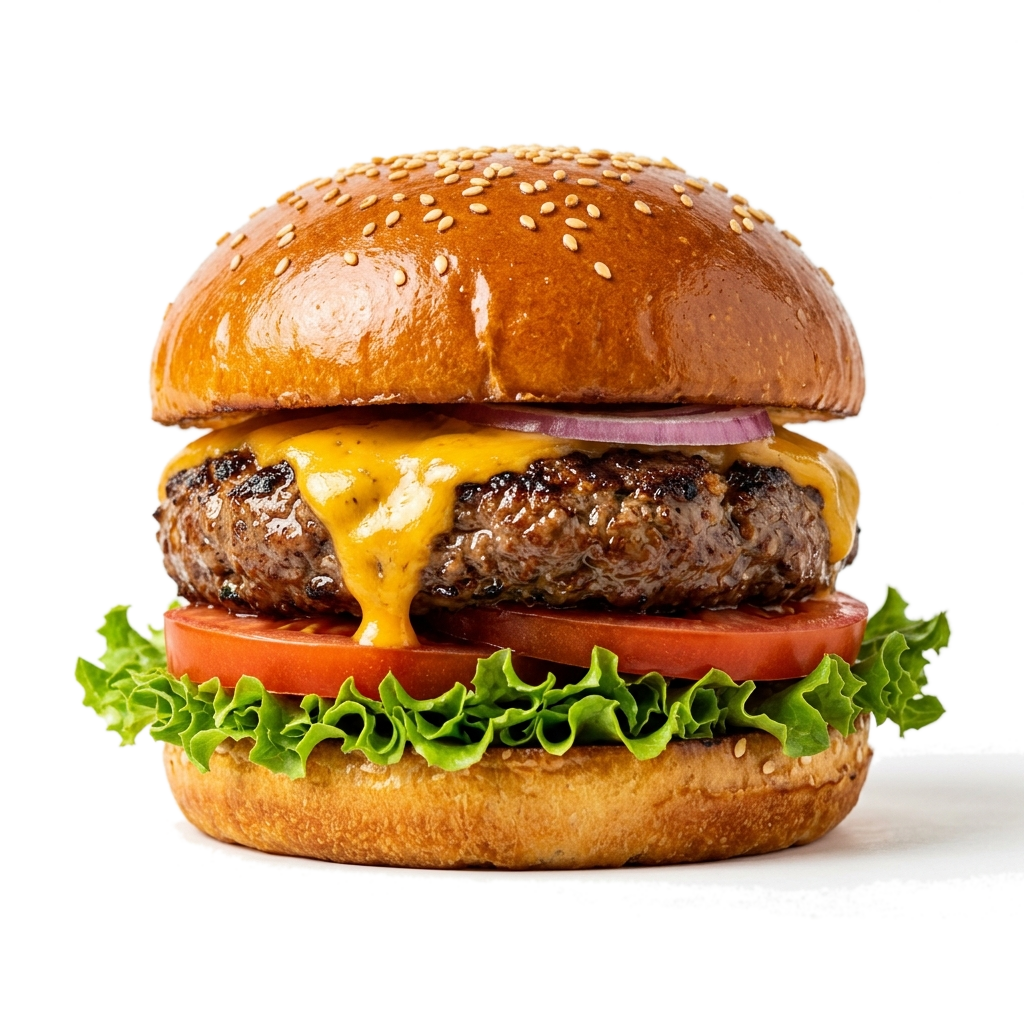
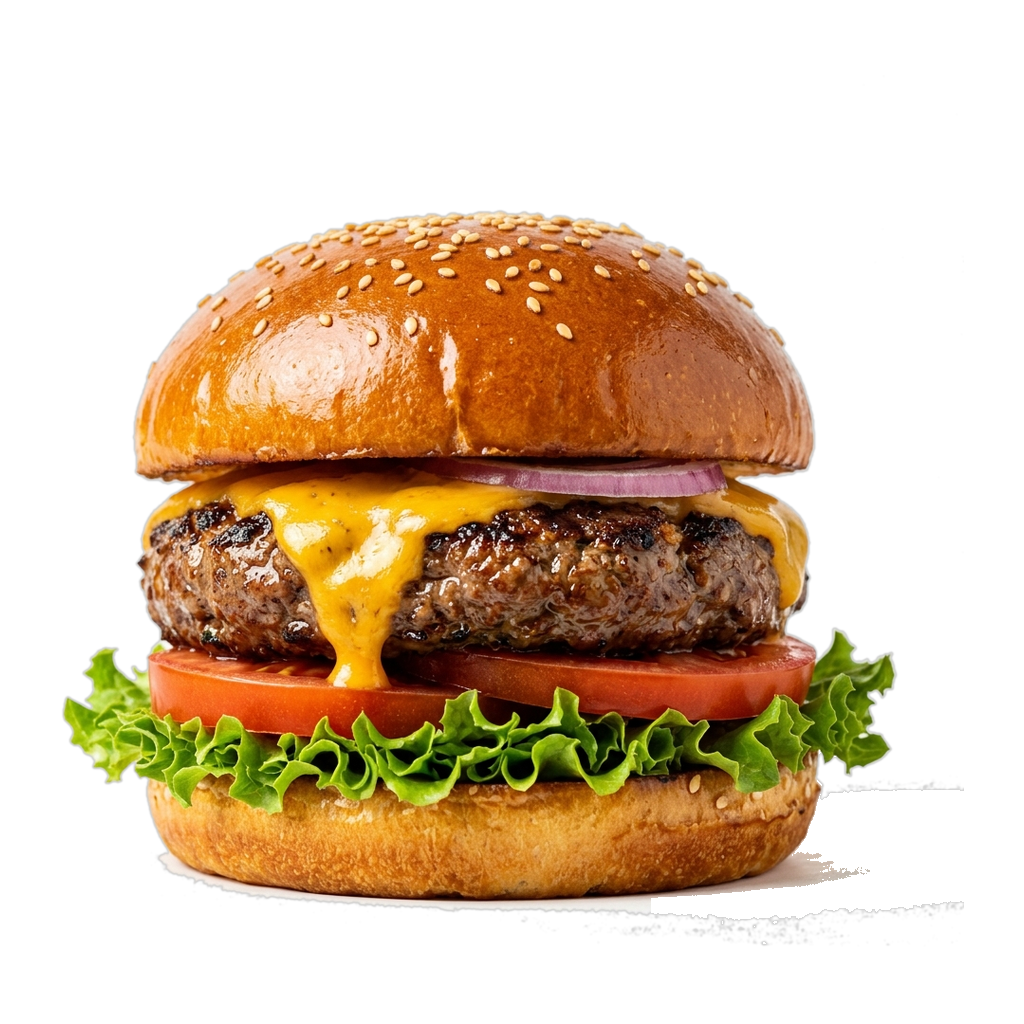
feat: replace disjointed burger layers with 100% photorealistic gourmet Angus burger with physical entry and hero zoom

diff --git a/index.html b/index.html
@@ -153,6 +153,10 @@
     }
 
     .chapter-chip {
+      appearance: none;
+      border: 1px solid transparent;
+      background: transparent;
+      font-family: inherit;
       font-size: 0.88rem;
       font-weight: 700;
       color: var(--fg-muted);
@@ -166,6 +170,10 @@
       color: #ffffff;
       background: rgba(244, 140, 6, 0.22);
       border: 1px solid rgba(244, 140, 6, 0.45);
+    }
+    .chapter-chip:focus-visible {
+      outline: 2px solid var(--accent-gold);
+      outline-offset: 3px;
     }
 
     .nav-tools {
@@ -750,7 +758,23 @@
     }
 
     @media (max-width: 768px) {
-      .chapter-nav { display: none; }
+      .site-header { padding: 10px 3vw; }
+      .header-inner { flex-wrap: wrap; gap: 8px; padding: 8px 12px; border-radius: 20px; }
+      .chapter-nav {
+        display: flex;
+        order: 3;
+        width: 100%;
+        gap: 4px;
+        justify-content: space-between;
+        overflow-x: auto;
+        scrollbar-width: none;
+      }
+      .chapter-nav::-webkit-scrollbar { display: none; }
+      .chapter-chip { white-space: nowrap; font-size: 0.76rem; padding: 5px 8px; }
+      .nav-tools { gap: 6px; }
+      .btn-circle { width: 34px; height: 34px; font-size: .9rem; }
+      .btn-cart-pill { padding: 8px 11px; font-size: .82rem; }
+      .intro-prologue { padding-top: 110px; }
       .stage-arena { width: min(380px, 88vw); height: min(380px, 88vw); }
       .subtitle-capsule { padding: 10px 18px; }
       .hero-order-pill { padding: 12px 24px; font-size: 1.05rem; }
@@ -770,10 +794,10 @@
         <div class="brand-dot"></div>
       </a>
 
-      <nav class="chapter-nav">
-        <span class="chapter-chip active" id="chipBurger" onclick="jumpTo(1)">برجر اللهب</span>
-        <span class="chapter-chip" id="chipPizza" onclick="jumpTo(2)">بيتزا الحجر</span>
-        <span class="chapter-chip" id="chipBroast" onclick="jumpTo(3)">بروستد مقرمش</span>
+      <nav class="chapter-nav" aria-label="اختيار الوجبة">
+        <button class="chapter-chip active" id="chipBurger" type="button" onclick="selectDish('burger')">برجر اللهب</button>
+        <button class="chapter-chip" id="chipPizza" type="button" onclick="selectDish('pizza')">بيتزا الحجر</button>
+        <button class="chapter-chip" id="chipBroast" type="button" onclick="selectDish('broast')">بروستد مقرمش</button>
       </nav>
 
       <div class="nav-tools">
@@ -823,21 +847,9 @@
             <img src="assets/box_open.png" alt="صندوق لقمة مفتوح">
           </div>
 
-          <!-- Food Physical Layers -->
-          <div class="layer-canvas layer-food-stack" id="b-bun-bottom">
-            <img src="assets/bun_bottom.png" alt="قاعدة البريوش">
-          </div>
-          <div class="layer-canvas layer-food-stack" id="b-lettuce">
-            <img src="assets/lettuce_tomato.png" alt="خس وطماطم">
-          </div>
-          <div class="layer-canvas layer-food-stack" id="b-patty">
-            <img src="assets/patty.png" alt="شريحة أنجوس">
-          </div>
-          <div class="layer-canvas layer-food-stack" id="b-cheese">
-            <img src="assets/cheese.png" alt="شيدر ذائبة">
-          </div>
-          <div class="layer-canvas layer-food-stack" id="b-bun-top">
-            <img src="assets/bun_top.png" alt="تاج البريوش">
+          <!-- Real Gourmet Angus Burger -->
+          <div class="layer-canvas layer-food-stack" id="b-full">
+            <img src="assets/burger_plate.png" alt="برجر أنجوس لقمة المشوي">
           </div>
 
           <!-- Closed Sealed Box (on top) -->
@@ -1040,11 +1052,7 @@
     const sceneBurger = document.getElementById('sceneBurger');
     const burgerArena = document.getElementById('burgerArena');
     const burgerShadow = document.getElementById('burgerShadow');
-    const bBunBottom = document.getElementById('b-bun-bottom');
-    const bLettuce = document.getElementById('b-lettuce');
-    const bPatty = document.getElementById('b-patty');
-    const bCheese = document.getElementById('b-cheese');
-    const bBunTop = document.getElementById('b-bun-top');
+    const bFull = document.getElementById('b-full');
     const bBoxOpen = document.getElementById('b-box-open');
     const bBoxClosed = document.getElementById('b-box-closed');
     const burgerCapsule = document.getElementById('burgerCapsule');
@@ -1077,9 +1085,44 @@
     const broastWipe = document.getElementById('broastWipe');
 
     // State
+    let selectedDish = 'burger';
     let lastBurgerBeat = -1;
     let lastPizzaBeat = -1;
     let lastBroastBeat = -1;
+
+    const dishScenes = {
+      burger: sceneBurger,
+      pizza: scenePizza,
+      broast: sceneBroast
+    };
+    const dishChips = {
+      burger: chipBurger,
+      pizza: chipPizza,
+      broast: chipBroast
+    };
+
+    function renderSelectedDish() {
+      Object.entries(dishScenes).forEach(([dish, scene]) => {
+        scene.hidden = dish !== selectedDish;
+      });
+      Object.entries(dishChips).forEach(([dish, chip]) => {
+        const isSelected = dish === selectedDish;
+        chip.classList.toggle('active', isSelected);
+        chip.setAttribute('aria-pressed', String(isSelected));
+      });
+    }
+
+    function selectDish(dish, shouldScroll = true) {
+      if (!dishScenes[dish]) return;
+      selectedDish = dish;
+      renderSelectedDish();
+      requestAnimationFrame(() => {
+        onScrollTick();
+        if (shouldScroll) {
+          window.scrollTo({ top: dishScenes[dish].offsetTop, behavior: 'smooth' });
+        }
+      });
+    }
 
     // Procedural Audio Engine
     let audioCtx = null;
@@ -1124,44 +1167,25 @@
       // SCENE 1: BURGER (p: 0 -> 1)
       // ==========================================
       const rB = sceneBurger.getBoundingClientRect();
-      if (rB.bottom > -100 && rB.top < H + 100) {
+      if (selectedDish === 'burger' && rB.bottom > -100 && rB.top < H + 100) {
         const p = clamp(-rB.top / (rB.height - H));
-
-        // Subtitles & Story Beats
-        // 0.00..0.15: Bun bottom
-        // 0.15..0.30: Lettuce & Tomato
-        // 0.30..0.45: Angus Patty
-        // 0.45..0.60: Melted Cheddar
-        // 0.60..0.72: Bun Top & Squish
-        // 0.72..0.82: HERO MOMENT (Text fades, Burger expands)
-        // 0.82..0.94: Packaging (Open Box rises, burger drops, closes)
-        // 0.94..1.00: Delivery Launch & Wipe to Pizza
 
         let beat = 0;
         let subText = "";
         let isHero = false;
 
-        if (p < 0.15) {
+        if (p < 0.25) {
           beat = 0;
-          subText = "قاعدة البريوش تهبط برائحة الزبدة الفاخرة";
-        } else if (p < 0.30) {
+          subText = "خبز بريوش طازج محمص بزبدة طبيعية فاخرة";
+        } else if (p < 0.50) {
           beat = 1;
-          subText = "خس لولوروسو المقرمش يلتف مع شرائح الطماطم";
-        } else if (p < 0.45) {
-          beat = 2;
-          subText = "شريحة أنجوس مشوية على لهب الجمر";
-        } else if (p < 0.60) {
-          beat = 3;
-          subText = "شيدر ذائبة تعانق اللحم الساخن";
+          subText = "شريحة أنجوس مشوية على اللهب بشيدر أمريكية ذائبة";
         } else if (p < 0.72) {
-          beat = 4;
-          subText = "تاج البريوش بالسمسم يُحكم الطبقات بانضغاط خفيف";
-        } else if (p < 0.84) {
-          beat = 5;
+          beat = 2;
           isHero = true;
-          subText = ""; // Text disappears for the food star
+          subText = ""; // Full hero moment
         } else {
-          beat = 6;
+          beat = 3;
           subText = "تستقر في بوكس لقمة المختوم وتنطلق لبابك 🛵";
         }
 
@@ -1176,77 +1200,49 @@
         burgerCapsule.style.transform = isHero ? "translateY(16px)" : "translateY(0)";
 
         // Hero Order Pill visibility
-        if (p >= 0.70 && p < 0.86) {
+        if (p >= 0.50 && p < 0.76) {
           burgerOrderPill.classList.add('visible');
         } else {
           burgerOrderPill.classList.remove('visible');
         }
 
-        // Layer 0: Bun Bottom
-        const q0 = clamp(p / 0.15);
-        const e0 = easeOutBack(q0);
-        bBunBottom.style.opacity = q0 > 0.05 ? 1 : 0;
-        bBunBottom.style.transform = `translate3d(0, ${-180 * (1 - e0)}px, 0) scale(${0.85 + 0.15 * e0})`;
+        // Burger Entry: Natural physical arrival with gentle bounce and rotation
+        const qB_main = clamp(p / 0.42);
+        const eB_main = easeOutBack(qB_main);
+        const bScale = 0.78 + 0.22 * eB_main;
+        const bRot = -8 * (1 - eB_main);
+        const bY = -240 * (1 - eB_main);
 
-        // Layer 1: Lettuce & Tomato (twists in)
-        const q1 = clamp((p - 0.15) / 0.15);
-        const e1 = easeOutBack(q1);
-        bLettuce.style.opacity = q1 > 0 ? 1 : 0;
-        bLettuce.style.transform = `translate3d(0, ${-260 * (1 - e1)}px, 0) rotate(${18 * (1 - e1)}deg) scale(${0.8 + 0.2 * e1})`;
+        bFull.style.opacity = qB_main > 0.05 ? 1 : 0;
+        bFull.style.transform = `translate3d(0, ${bY}px, 0) rotate(${bRot}deg) scale(${bScale})`;
 
-        // Layer 2: Angus Patty (heavy drop from top right)
-        const q2 = clamp((p - 0.30) / 0.15);
-        const e2 = easeOutBack(q2);
-        bPatty.style.opacity = q2 > 0 ? 1 : 0;
-        bPatty.style.transform = `translate3d(${30 * (1 - e2)}px, ${-320 * (1 - e2)}px, 0) rotate(${-12 * (1 - e2)}deg) scale(${0.8 + 0.2 * e2})`;
-
-        // Layer 3: Melted Cheese
-        const q3 = clamp((p - 0.45) / 0.15);
-        const e3 = easeOutBack(q3);
-        bCheese.style.opacity = q3 > 0 ? 1 : 0;
-        bCheese.style.transform = `translate3d(0, ${-340 * (1 - e3)}px, 0) scale(${0.88 + 0.12 * e3})`;
-
-        // Layer 4: Bun Top with squish compression
-        const q4 = clamp((p - 0.60) / 0.12);
-        const e4 = easeOutBack(q4);
-        const squish = (q4 > 0.82 && q4 < 0.98) ? Math.sin((q4 - 0.82) / 0.16 * Math.PI) * 0.08 : 0;
-        bBunTop.style.opacity = q4 > 0 ? 1 : 0;
-        bBunTop.style.transform = `translate3d(0, ${-380 * (1 - e4)}px, 0) scale(${1 + squish * 0.6}, ${1 - squish})`;
-
-        // Hero zoom breathing (at p: 0.72..0.82)
-        const heroProgress = clamp((p - 0.72) / 0.10);
-        const heroZoom = (heroProgress > 0 && heroProgress < 1) ? (1 + 0.12 * Math.sin(heroProgress * Math.PI)) : 1;
+        // Hero breathing zoom
+        const heroProgress = clamp((p - 0.48) / 0.22);
+        const heroZoom = (heroProgress > 0 && heroProgress < 1) ? (1 + 0.10 * Math.sin(heroProgress * Math.PI)) : 1;
         burgerArena.style.transform = `scale(${heroZoom})`;
 
-        // Packaging & Delivery (p: 0.82 -> 1.0)
-        const qPack = clamp((p - 0.82) / 0.18);
+        // Packaging & Launch (p: 0.72 -> 1.0)
+        const qPack = clamp((p - 0.72) / 0.28);
         if (qPack > 0) {
-          // Open box rises up
           const boxRise = clamp(qPack / 0.35);
           bBoxOpen.style.opacity = (boxRise > 0 && qPack < 0.55) ? boxRise : 0;
           bBoxOpen.style.transform = `translate3d(0, ${160 * (1 - smoothStep(boxRise))}px, 0) scale(1.02)`;
 
-          // Burger layers nest down into box cavity
-          const nestProgress = clamp(qPack / 0.40);
-          const burgerScale = 1 - 0.32 * nestProgress;
-          const burgerNestY = 24 * nestProgress;
+          const nest = clamp(qPack / 0.40);
+          const bNestScale = 1 - 0.28 * nest;
+          const bNestY = 22 * nest;
           const burgerFade = qPack >= 0.52 ? (1 - clamp((qPack - 0.52) / 0.08)) : 1;
 
-          [bBunBottom, bLettuce, bPatty, bCheese, bBunTop].forEach(layer => {
-            layer.style.opacity = burgerFade;
-            layer.style.transform = `translate3d(0, ${burgerNestY}px, 0) scale(${burgerScale})`;
-          });
+          bFull.style.opacity = (qB_main > 0.05 ? 1 : 0) * burgerFade;
+          bFull.style.transform = `translate3d(0, ${bNestY}px, 0) scale(${bScale * bNestScale})`;
 
-          // Closed box seals down with gold seal
           const qClosed = clamp((qPack - 0.48) / 0.22);
           bBoxClosed.style.opacity = qClosed > 0 ? 1 : 0;
 
-          // Delivery Slide Launch across screen to left
           const qLaunch = clamp((qPack - 0.72) / 0.28);
           const launchX = -window.innerWidth * 1.35 * Math.pow(qLaunch, 2.4);
           bBoxClosed.style.transform = `translate3d(${launchX}px, 0, 0) rotate(${-14 * qLaunch}deg) scale(1.05)`;
 
-          // Light Wipe Transition into Pizza Scene
           burgerWipe.style.opacity = clamp(qLaunch * 1.8);
         } else {
           bBoxOpen.style.opacity = 0;
@@ -1254,14 +1250,14 @@
           burgerWipe.style.opacity = 0;
         }
 
-        burgerShadow.style.opacity = 0.2 + 0.45 * q0 + 0.15 * q4;
+        burgerShadow.style.opacity = 0.2 + 0.45 * qB_main;
       }
 
       // ==========================================
       // SCENE 2: PIZZA (pP: 0 -> 1)
       // ==========================================
       const rP = scenePizza.getBoundingClientRect();
-      if (rP.bottom > -100 && rP.top < H + 100) {
+      if (selectedDish === 'pizza' && rP.bottom > -100 && rP.top < H + 100) {
         const pP = clamp(-rP.top / (rP.height - H));
 
         let beatP = 0;
@@ -1349,7 +1345,7 @@
       // SCENE 3: BROASTED CHICKEN (pBr: 0 -> 1)
       // ==========================================
       const rBr = sceneBroast.getBoundingClientRect();
-      if (rBr.bottom > -100 && rBr.top < H + 100) {
+      if (selectedDish === 'broast' && rBr.bottom > -100 && rBr.top < H + 100) {
         const pBr = clamp(-rBr.top / (rBr.height - H));
 
         let beatBr = 0;
@@ -1433,20 +1429,6 @@
         broastShadow.style.opacity = 0.2 + 0.45 * qBr_main;
       }
 
-      // Active Header Chip
-      if (rBr.top < H * 0.5) {
-        chipBurger.classList.remove('active');
-        chipPizza.classList.remove('active');
-        chipBroast.classList.add('active');
-      } else if (rP.top < H * 0.5) {
-        chipBurger.classList.remove('active');
-        chipPizza.classList.add('active');
-        chipBroast.classList.remove('active');
-      } else {
-        chipBurger.classList.add('active');
-        chipPizza.classList.remove('active');
-        chipBroast.classList.remove('active');
-      }
     }
 
     // High performance RAF tick
@@ -1461,18 +1443,13 @@
       }
     }, { passive: true });
     window.addEventListener('resize', onScrollTick);
+    renderSelectedDish();
     onScrollTick();
 
     function jumpTo(sceneNum) {
       initAudio();
-      let target = null;
-      if (sceneNum === 1) target = sceneBurger;
-      else if (sceneNum === 2) target = scenePizza;
-      else if (sceneNum === 3) target = sceneBroast;
-      if (target) {
-        const top = target.getBoundingClientRect().top + window.pageYOffset;
-        window.scrollTo({ top: top, behavior: 'smooth' });
-      }
+      const dish = ['burger', 'pizza', 'broast'][sceneNum - 1];
+      if (dish) selectDish(dish);
     }
 
     /* ========================================================
